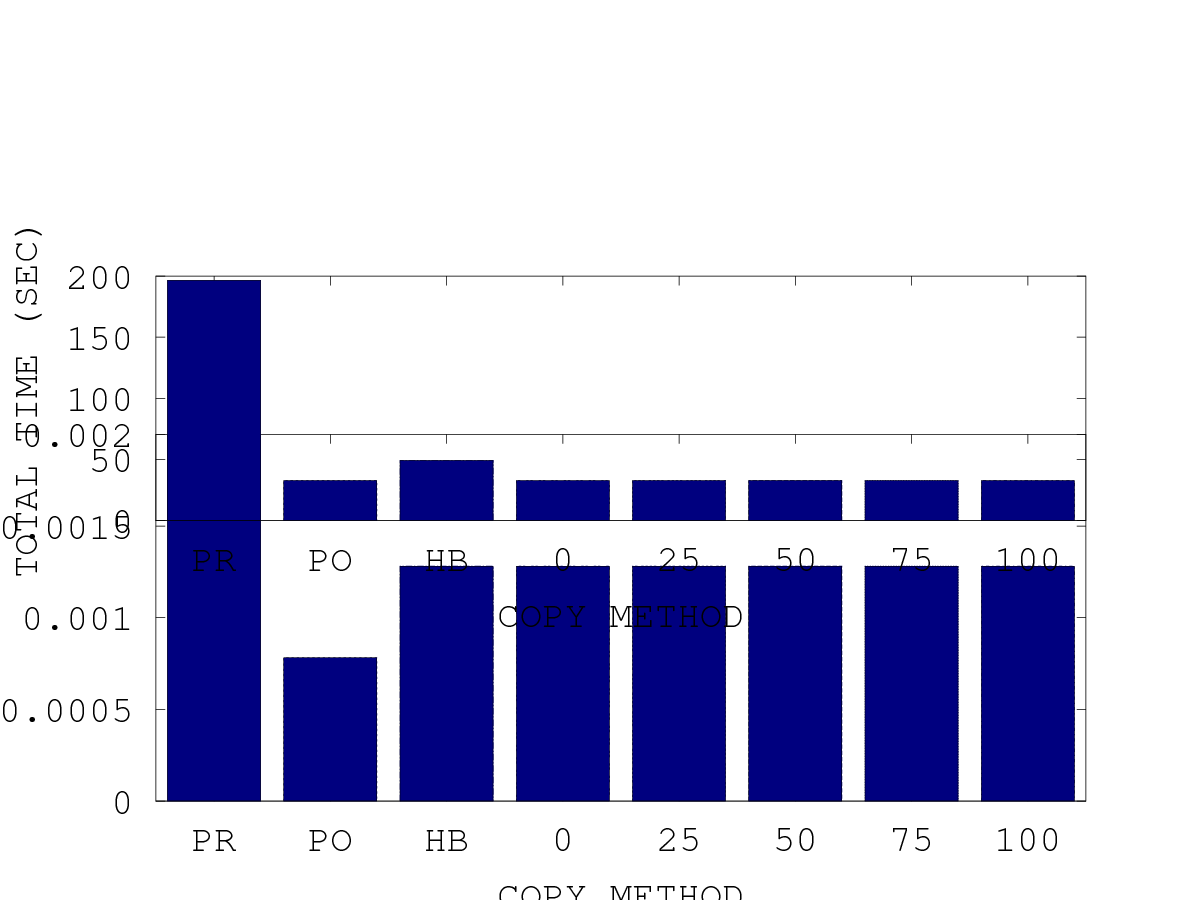
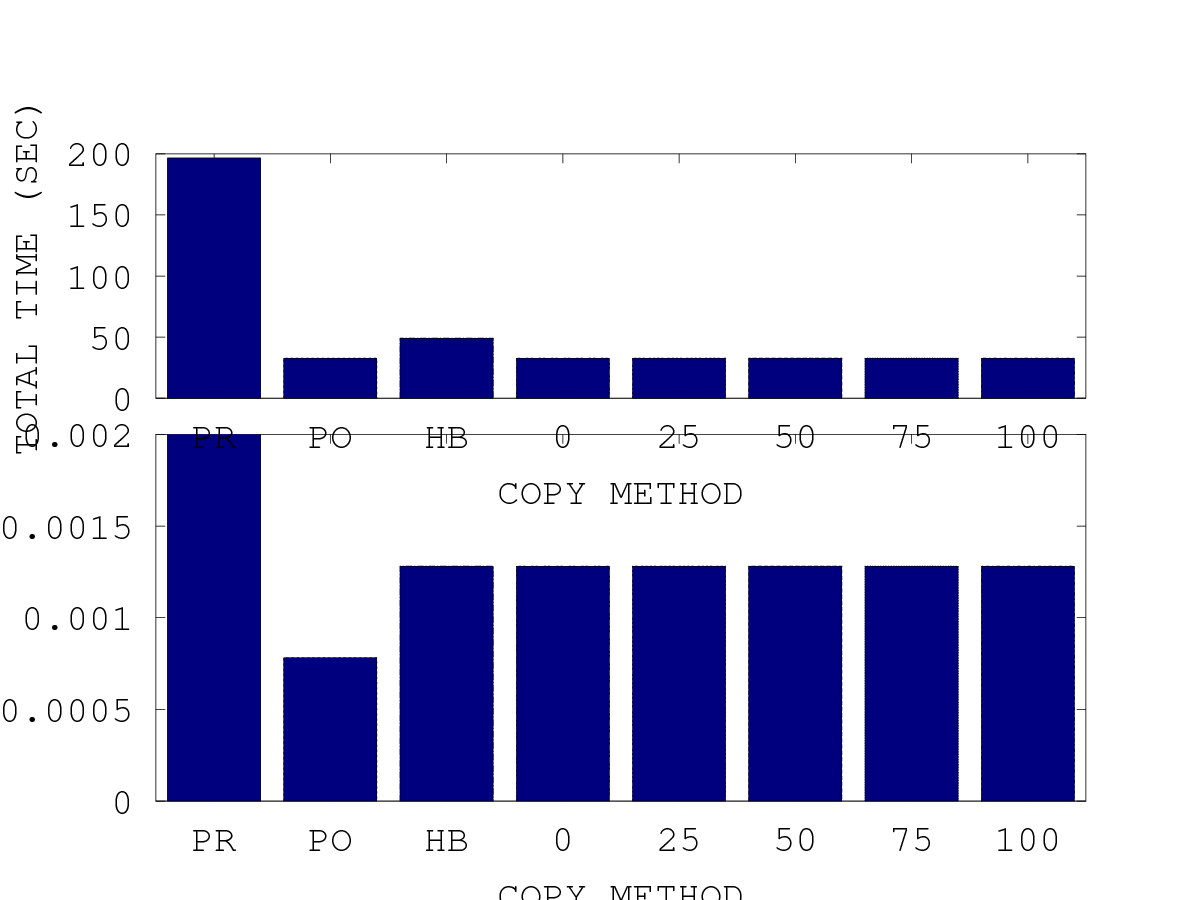
basic_break.m

diff --git a/basic_break.m b/basic_break.m
@@ -306,7 +306,7 @@ set (a1, 'ylim', ylim1);
 xlabel('COPY METHOD', 'FontSize', fontsize);
 %ylabel('DOWNTIME (SEC)', 'FontSize', fontsize);
 
-a2 = axes ('position', [p0(1) p0(4)/3+.15 p0(3) p0(4)/3]);
+a2 = axes ('position', [p0(1) p0(4)/2+.15 p0(3) p0(4)/3]);
 bar(xintervals, A(:,2))
 set(a2, 'ylim', ylim2, 'FontSize', fontsize);
 set(a2, 'xtick', []);
